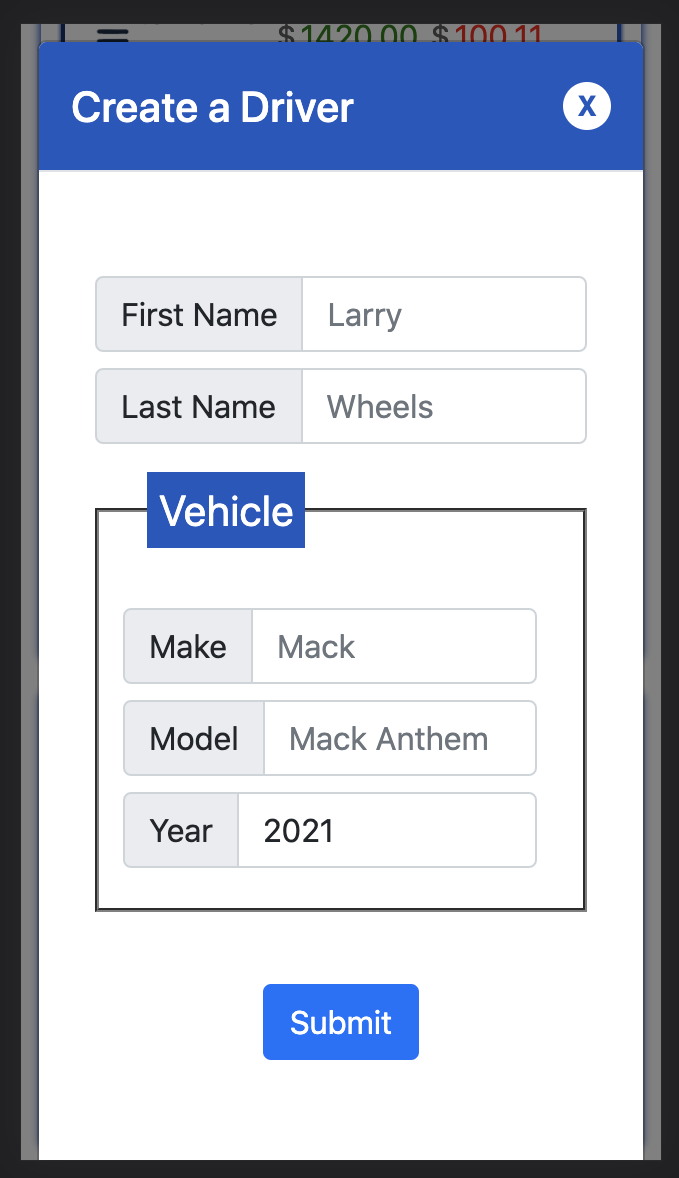
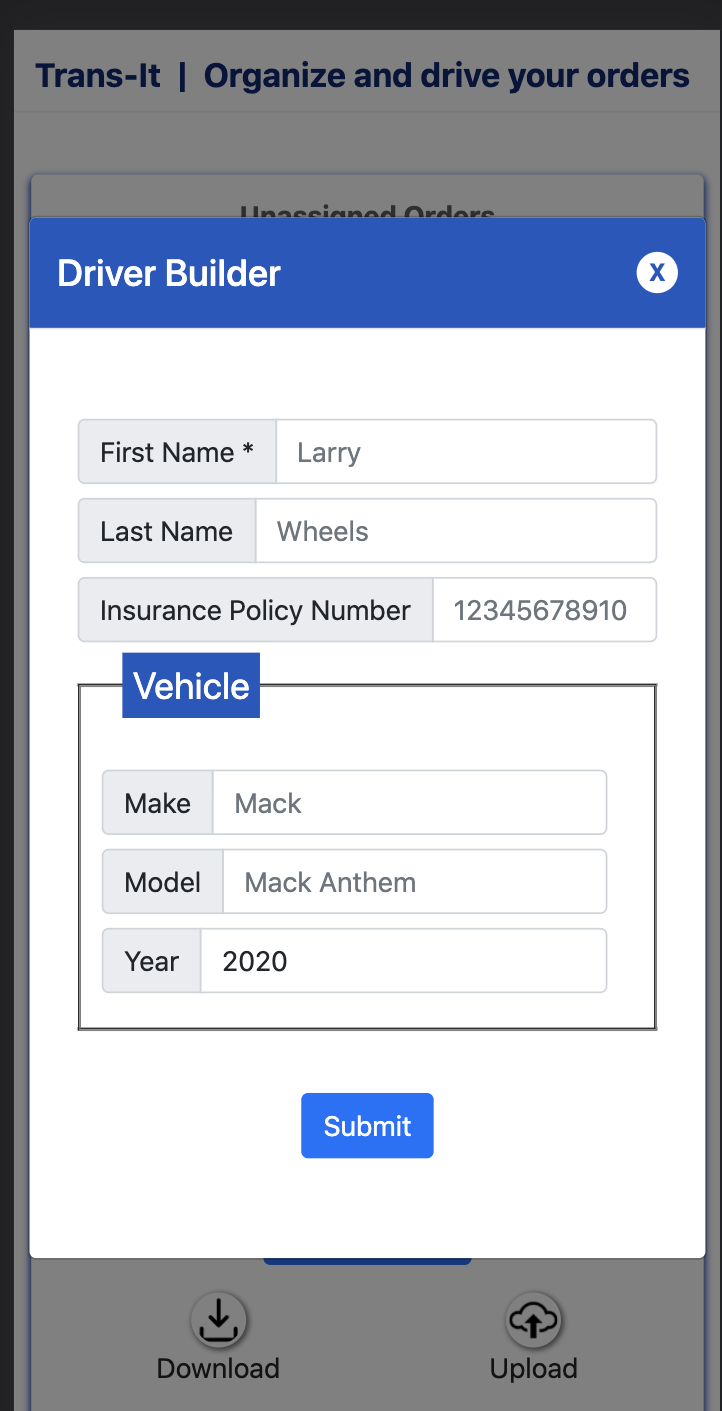
update readme

diff --git a/FEATURES.md b/FEATURES.md
@@ -39,15 +39,22 @@
     - [Updates.js](./src/components/general/Updates.js)
   - Simple animations to add user interaction 
     - drag and dropping orders between windows - custom built hooks from scratch
+      - [drag-order.mov](./docs/features/drag-order.mov)
     - animations on OrderListItem for movement and sense of user interaction 
     - [useDropZone.js](./src/components/hooks/useDropZone.js)
   - in CreateOrderForm: added scrollable windows for selecting a driver, source, and destination for orders to select previously input records. 
   - in OrderListItem: added transit status color dots to show status + a legend for informative content
+    - [OrderListItem.js](./src/components/orders/OrderListItem.js)
+    - <img src='https://github.com/ilaksono/rr-challenge/blob/main/docs/features/transit-information.png' alt='Transit Information' style="width:320px;"/>
   - Popovers on: 
     - Source + Destination -  describes the locations for departure and arrival
+      - [useDropZone.js](./src/components/popovers/AddressPopover.js)
+      - <img src='https://github.com/ilaksono/rr-challenge/blob/main/docs/features/address-popover.png' alt='Address Popover' style="width:180;"/>
     - Start and End times - describes the date+time of depart / arrival and corresponding order status
+      - [OrderTimePopover.js](./src/components/popovers/OrderTimePopover.js)
+      - <img src='https://github.com/ilaksono/rr-challenge/blob/main/docs/features/time-popover.png' alt='Time Popover' style="width:180;"/>
   - Added sort feature to `OrderList` for easier access
-<img src='https://github.com/ilaksono/rr-challenge/blob/main/docs/main-view.png' alt='Main View - Desktop' style="width:80%;"/>
+    - <img src='https://github.com/ilaksono/rr-challenge/blob/main/docs/features/sort-order.png' alt='Sort Options' style="width:80%;"/>
 
 
 
@@ -55,21 +62,27 @@
   - Added edittable supplier address information by manual input
   - Added edittable customer address information by manual input
   - added driver insurance to driver form - can be viewed by downloading orders via csv file
-
+    - <img src='https://github.com/ilaksono/rr-challenge/blob/main/docs/driver-form.png' alt='Driver Form - Mobile' style="width:160px;"/>
 
 5. `Orders have start and end times, and a driver can’t have two orders that overlap in time`
   - Every order is checked for overlapping start and end times for the driver before create/update of orders in the database
+    - [helperFuncs.js -> isDriverBooked](./src/utils/helperFuncs.js)
 
 6. `Ability to create new drivers and/or orders`
   - both are available by clicking the buttons: `Create a Driver` and `Create Order`
+    - <img src='https://github.com/ilaksono/rr-challenge/blob/main/docs/order-form.png' alt='Order Form' style="width:240px;"/>
+
 7. `Ability to delete drivers and/or orders`
   - Both are implented, triggered by: 
     - hovering over an order and clicking the delete-icon
     - hovering over the driver window and clicking the delete-icon at the bottom-right of the driver window
+      - [DeleteIcon.js](./src/components/general/DeleteIcon.js)
+      - <img src='https://github.com/ilaksono/rr-challenge/blob/main/docs/features/delete-btns.png' alt='Delete Buttons' style="width:160px;"/>
+
 
 
 8. `Persist data either in a database of your choice (make sure the documentation is clear enough for us to run it)`
-  - uses postgres and documentation is available in README.md for dev setup
+  - uses postgreSQL db - documentation is available in [(/README.md)](./README.md) for dev setup
 
 9. `Or give us an ERD of your database model` 
    - screenshot of ERD can be found at `/docs/db-erd.png`
@@ -92,10 +105,13 @@
     - end_time
     - revenue
     - cost
+  - [OrderDownload.js](./src/components/orders/OrderDownload.js)
+  - <img src='https://github.com/ilaksono/rr-challenge/blob/main/docs/features/download-btn.png' alt='Delete Buttons' style="width:80px;"/>
     
 11. `Two users of the app can see each other’s changes in real-time`
   - uses `ws` on BE for live server messages
   - uses `WebSocket` object on FE with message handlers to update all data entities
+  - [livesocket.js](./server/livesocket.js)
 
 12. `Deploy the app somewhere / containerize it`
   - Netlify link: https://rr-challenge-il.netlify.app/  
@@ -103,6 +119,8 @@
   
 13. `Ability to upload and download CSV data through the web interface`
   - trigger upload interface by clicking `Upload` button
+    - [OrderUpload.js](./src/components/orders/OrderUpload.js)
+    - <img src='https://github.com/ilaksono/rr-challenge/blob/main/docs/features/upload-interface.png' alt='Upload CSV Interface' style="width:80px;"/>
   - Download all orders by clicking `Download` button
 
 14. `Anything else you can think of!`    
